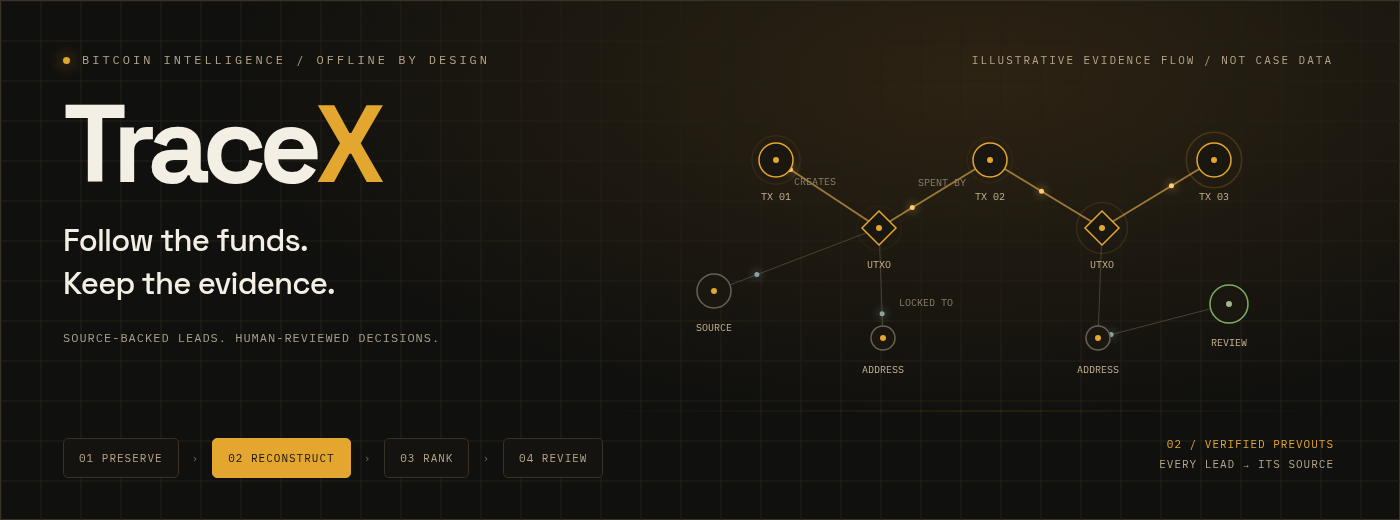
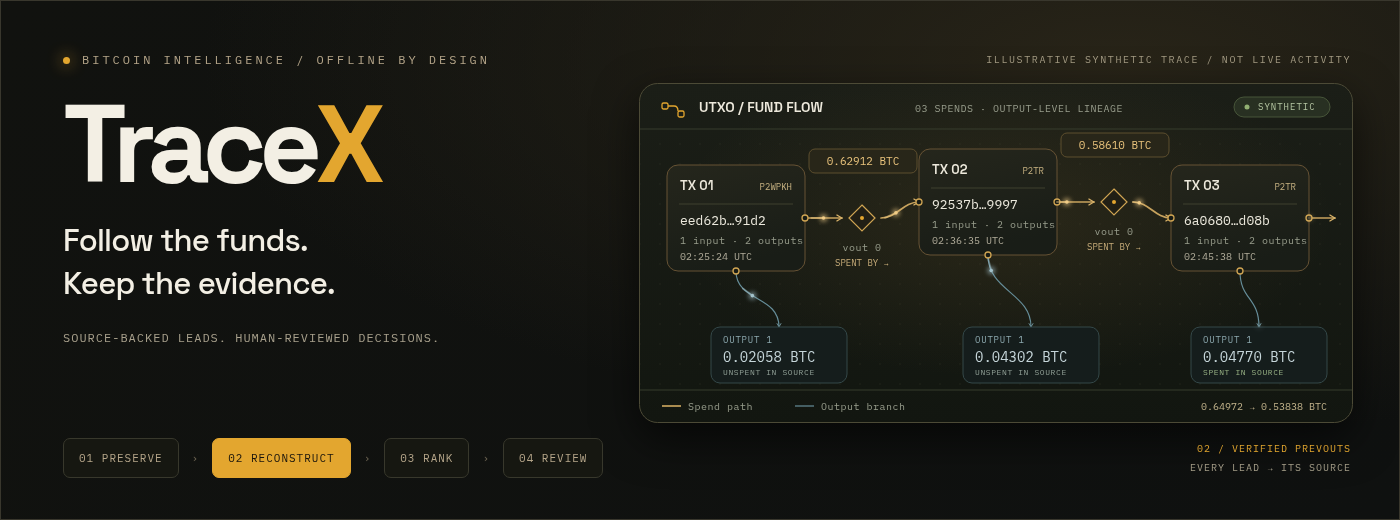
Updated README.md graph

diff --git a/docs/assets/readme/hero.html b/docs/assets/readme/hero.html
@@ -5,38 +5,99 @@
 <style>
 @font-face{font-family:Space;src:url('../../../frontend/src/assets/fonts/space-grotesk-var.woff2')}
 @font-face{font-family:Plex;src:url('../../../frontend/src/assets/fonts/ibm-plex-mono-400.woff2')}
-*{box-sizing:border-box}html,body{margin:0;width:1400px;height:520px;overflow:hidden;background:#10100e;color:#f3efe4}
-main{position:relative;width:1400px;height:520px;border:1px solid #393227;background:radial-gradient(ellipse at 70% 15%,#2d2313 0%,transparent 55%)}
-canvas{position:absolute;inset:0;width:1400px;height:520px}.copy{position:absolute;top:51px;left:62px;z-index:1}
-.eyebrow{font:12px Plex,monospace;letter-spacing:3px;color:#b6a68a}.live{display:inline-block;width:7px;height:7px;background:#e3a62f;border-radius:50%;margin-right:12px;box-shadow:0 0 15px #e3a62f}
-.word{font:700 109px Space,sans-serif;letter-spacing:-7px;margin:23px 0 6px;line-height:1}.word span{color:#e3a62f}
-.tagline{font:500 31px Space,sans-serif;letter-spacing:-.8px;line-height:1.4;margin:20px 0;color:#f3efe4}
-.sub{font:12px Plex,monospace;color:#a8a08c;letter-spacing:1px;margin-top:24px}
-.label{position:absolute;right:66px;top:52px;font:11px Plex,monospace;color:#b6a68a;letter-spacing:2px}
-.stage{position:absolute;left:62px;bottom:41px;display:flex;gap:13px;align-items:center;font:11px Plex,monospace;letter-spacing:1px}
-.pill{padding:12px 15px;border:1px solid #383125;border-radius:5px;color:#b6a68a;background:#14130f}.pill.active{color:#17130c;background:#e3a62f;border-color:#e3a62f}
-.chev{color:#68604f}.status{position:absolute;right:65px;bottom:44px;text-align:right;font:11px Plex,monospace;line-height:1.8;letter-spacing:1px;color:#b6a68a}.status b{color:#e3a62f;font-weight:400}
+*{box-sizing:border-box}html,body{margin:0;width:1400px;height:520px;overflow:hidden;background:#10110f;color:#f3efe4}
+main{position:relative;width:1400px;height:520px;overflow:hidden;border:1px solid #39372d;background:radial-gradient(ellipse at 80% 12%,#282418 0%,transparent 58%),linear-gradient(130deg,#11120f,#0f1110)}
+main:before{content:"";position:absolute;inset:0;background-image:radial-gradient(#a8966720 .7px,transparent .7px);background-size:24px 24px;mask-image:linear-gradient(90deg,transparent 36%,#000 78%);pointer-events:none}
+.copy{position:absolute;top:51px;left:62px;z-index:1}.eyebrow{font:12px Plex,monospace;letter-spacing:3px;color:#b6a68a}.live{display:inline-block;width:7px;height:7px;background:#e3a62f;border-radius:50%;margin-right:12px;box-shadow:0 0 15px #e3a62f}
+.word{font:700 109px Space,sans-serif;letter-spacing:-7px;margin:23px 0 6px;line-height:1}.word span{color:#e3a62f}.tagline{font:500 31px Space,sans-serif;letter-spacing:-.8px;line-height:1.4;margin:20px 0;color:#f3efe4}.sub{font:12px Plex,monospace;color:#a8a08c;letter-spacing:1px;margin-top:24px}
+.label{position:absolute;right:48px;top:52px;font:10px Plex,monospace;color:#a69d85;letter-spacing:1.6px}.graph{position:absolute;left:638px;top:82px;width:714px;height:340px;filter:drop-shadow(0 15px 22px #0009)}
+.stage{position:absolute;left:62px;bottom:41px;display:flex;gap:13px;align-items:center;font:11px Plex,monospace;letter-spacing:1px}.pill{padding:12px 15px;border:1px solid #38382c;border-radius:7px;color:#b6a68a;background:#161711}.pill.active{color:#17130c;background:#e3a62f;border-color:#e3a62f}.chev{color:#68604f}.status{position:absolute;right:48px;bottom:42px;text-align:right;font:10px Plex,monospace;line-height:1.9;letter-spacing:1px;color:#a59e89}.status b{color:#e3a62f;font-weight:400}
+.graph text{font-family:Plex,monospace}.graph .heading{font-family:Space,sans-serif;font-weight:600;fill:#ede9dc}.graph .micro{fill:#999e8d;font-size:10px;letter-spacing:.5px}.graph .hash{fill:#ece9dd;font-size:13px}.graph .time{fill:#b2ad9b;font-size:10px}.graph .branch-value{fill:#c6d6da;font-size:14px}.graph .node-border{fill:url(#card);stroke:#665234;stroke-width:1}.graph .outpoint{fill:#211f15;stroke:#d0a553;stroke-width:1.2}.graph .branch-box{fill:#151d1c;stroke:#344849;stroke-width:1}.graph .connection{fill:none;stroke-linecap:round}.graph .flow-gold{stroke:#c7a25d;stroke-width:1.7}.graph .flow-blue{stroke:#668e9a;stroke-width:1.15}.graph .port{fill:#171b15;stroke:#d0a553;stroke-width:1.3}.graph .timeline{stroke:#3c4235;stroke-width:1;stroke-dasharray:2 5}
 </style>
-<main aria-label="TraceX animated identity: preserve evidence, reconstruct lineage, rank signals and review claims">
-<canvas width="1400" height="520"></canvas>
+<main aria-label="TraceX animated identity with a realistic illustrative UTXO flow: transaction hashes, spent outpoints, output values and branching payments">
 <div class="copy"><div class="eyebrow"><i class="live"></i>BITCOIN INTELLIGENCE / OFFLINE BY DESIGN</div><div class="word">Trace<span>X</span></div><p class="tagline">Follow the funds.<br>Keep the evidence.</p><div class="sub">SOURCE-BACKED LEADS. HUMAN-REVIEWED DECISIONS.</div></div>
-<div class="label">ILLUSTRATIVE EVIDENCE FLOW / NOT CASE DATA</div>
+<div class="label">ILLUSTRATIVE SYNTHETIC TRACE / NOT LIVE ACTIVITY</div>
+<svg class="graph" xmlns="http://www.w3.org/2000/svg" viewBox="0 0 714 340" role="img" aria-labelledby="graph-title graph-description">
+<title id="graph-title">A verified spend path with separate output branches</title>
+<desc id="graph-description">Three synthetic transactions spend previous outputs and create smaller continuing outputs. Side outputs retain their own values and spent status. Moving lights indicate the direction of recorded links, not live blockchain activity.</desc>
+<defs>
+  <linearGradient id="panel" x2="0" y2="1"><stop stop-color="#1b1e17"/><stop offset="1" stop-color="#121610"/></linearGradient>
+  <linearGradient id="card" x2=".3" y2="1"><stop stop-color="#25261c"/><stop offset="1" stop-color="#191d17"/></linearGradient>
+  <radialGradient id="ambient"><stop stop-color="#ac8037" stop-opacity=".13"/><stop offset="1" stop-color="#ac8037" stop-opacity="0"/></radialGradient>
+  <pattern id="dots" width="20" height="20" patternUnits="userSpaceOnUse"><circle cx="1" cy="1" r=".65" fill="#646f462e"/></pattern>
+  <filter id="glow" x="-200%" y="-200%" width="500%" height="500%"><feGaussianBlur stdDeviation="2.3"/></filter>
+  <marker id="gold-arrow" viewBox="0 0 8 8" markerWidth="5" markerHeight="5" refX="6.2" refY="4" orient="auto"><path d="M1 1L6 4L1 7" fill="none" stroke="#d9b36a" stroke-width="1.2"/></marker>
+  <marker id="blue-arrow" viewBox="0 0 8 8" markerWidth="5" markerHeight="5" refX="6.2" refY="4" orient="auto"><path d="M1 1L6 4L1 7" fill="none" stroke="#789ea8" stroke-width="1.2"/></marker>
+</defs>
+<rect x=".5" y=".5" width="713" height="339" rx="18" fill="url(#panel)" stroke="#4c4a36"/>
+<rect x="1" y="47" width="712" height="259" fill="url(#dots)"/>
+<ellipse cx="365" cy="135" rx="330" ry="160" fill="url(#ambient)"/>
+<path d="M1 46H713M1 307H713" stroke="#373c2c"/>
+<g transform="translate(23 18)" stroke="#e3a62f" fill="none" stroke-width="1.3"><rect x="0" y="2" width="6" height="6" rx="1.5"/><rect x="16" y="10" width="6" height="6" rx="1.5"/><path d="M6 5H12Q16 5 16 10"/></g>
+<text class="heading" x="60" y="29" font-size="14">UTXO / FUND FLOW</text>
+<text class="micro" x="380" y="29" text-anchor="middle">03 SPENDS · OUTPUT-LEVEL LINEAGE</text>
+<rect x="595" y="14" width="96" height="20" rx="10" fill="#283022" stroke="#475539"/>
+<circle cx="608" cy="24" r="2.5" fill="#91af72"/><text x="619" y="27" font-size="9" letter-spacing="1" fill="#b7c8a4">SYNTHETIC</text>
+<!-- Transactions preserve realistic source semantics. Values below come from the recorded synthetic fixture. -->
+<g class="connection flow-gold">
+  <path id="create-1" d="M166 135C183 135 187 135 203 135" marker-end="url(#gold-arrow)"/>
+  <path id="spend-1" d="M242 135C258 135 264 119 280 119" marker-end="url(#gold-arrow)"/>
+  <path id="create-2" d="M418 119C435 119 439 119 455 119" marker-end="url(#gold-arrow)"/>
+  <path id="spend-2" d="M494 119C510 119 516 135 532 135" marker-end="url(#gold-arrow)"/>
+  <path id="continue" d="M670 135H696" marker-end="url(#gold-arrow)"/>
+</g>
+<g class="connection flow-blue">
+  <path id="branch-1" d="M97 188C97 219 140 212 140 244" marker-end="url(#blue-arrow)"/>
+  <path id="branch-2" d="M349 172C349 208 392 210 392 244" marker-end="url(#blue-arrow)"/>
+  <path id="branch-3" d="M601 188C601 217 620 214 620 244" marker-end="url(#blue-arrow)"/>
+</g>
+<!-- Continuing outputs are outpoints, rather than invented direct input-to-output allocations. -->
+<g>
+  <rect x="170" y="66" width="108" height="24" rx="6" fill="#282619" stroke="#5d4e2e"/><text x="224" y="82" text-anchor="middle" fill="#e9c37c" font-size="11">0.62912 BTC</text>
+  <path class="outpoint" d="M223 122L236 135L223 148L210 135Z"/><circle cx="223" cy="135" r="2" fill="#e3a62f"/>
+  <text class="micro" x="223" y="168" text-anchor="middle">vout 0</text><text x="223" y="183" text-anchor="middle" font-size="9" fill="#c7ac79">SPENT BY →</text>
+  <rect x="422" y="50" width="108" height="24" rx="6" fill="#282619" stroke="#5d4e2e"/><text x="476" y="66" text-anchor="middle" fill="#e9c37c" font-size="11">0.58610 BTC</text>
+  <path class="outpoint" d="M475 106L488 119L475 132L462 119Z"/><circle cx="475" cy="119" r="2" fill="#e3a62f"/>
+  <text class="micro" x="475" y="152" text-anchor="middle">vout 0</text><text x="475" y="167" text-anchor="middle" font-size="9" fill="#c7ac79">SPENT BY →</text>
+</g>
+<g class="tx" data-node="0" transform="translate(28 82)">
+  <rect class="node-border" width="138" height="106" rx="11"/><path d="M12 39H126" stroke="#3e412e"/>
+  <text class="heading" x="13" y="25" font-size="13">TX 01</text><text x="125" y="25" text-anchor="end" fill="#c8b382" font-size="9">P2WPKH</text>
+  <text class="hash" x="13" y="60">eed62b…91d2</text><text class="micro" x="13" y="79">1 input · 2 outputs</text><text class="time" x="13" y="95">02:25:24 UTC</text>
+  <circle class="port" cx="138" cy="53" r="3"/><circle class="port" cx="69" cy="106" r="3"/>
+</g>
+<g class="tx" data-node="1" transform="translate(280 66)">
+  <rect class="node-border" width="138" height="106" rx="11"/><path d="M12 39H126" stroke="#3e412e"/>
+  <text class="heading" x="13" y="25" font-size="13">TX 02</text><text x="125" y="25" text-anchor="end" fill="#c8b382" font-size="9">P2TR</text>
+  <text class="hash" x="13" y="60">92537b…9997</text><text class="micro" x="13" y="79">1 input · 2 outputs</text><text class="time" x="13" y="95">02:36:35 UTC</text>
+  <circle class="port" cx="0" cy="53" r="3"/><circle class="port" cx="138" cy="53" r="3"/><circle class="port" cx="69" cy="106" r="3"/>
+</g>
+<g class="tx" data-node="2" transform="translate(532 82)">
+  <rect class="node-border" width="138" height="106" rx="11"/><path d="M12 39H126" stroke="#3e412e"/>
+  <text class="heading" x="13" y="25" font-size="13">TX 03</text><text x="125" y="25" text-anchor="end" fill="#c8b382" font-size="9">P2TR</text>
+  <text class="hash" x="13" y="60">6a0680…d08b</text><text class="micro" x="13" y="79">1 input · 2 outputs</text><text class="time" x="13" y="95">02:45:38 UTC</text>
+  <circle class="port" cx="0" cy="53" r="3"/><circle class="port" cx="138" cy="53" r="3"/><circle class="port" cx="69" cy="106" r="3"/>
+</g>
+<g transform="translate(72 244)"><rect class="branch-box" width="136" height="56" rx="9"/><text x="12" y="16" fill="#8eaab0" font-size="9" letter-spacing=".8">OUTPUT 1</text><text class="branch-value" x="12" y="35">0.02058 BTC</text><text x="12" y="48" font-size="8" letter-spacing=".6" fill="#91a096">UNSPENT IN SOURCE</text></g>
+<g transform="translate(324 244)"><rect class="branch-box" width="136" height="56" rx="9"/><text x="12" y="16" fill="#8eaab0" font-size="9" letter-spacing=".8">OUTPUT 1</text><text class="branch-value" x="12" y="35">0.04302 BTC</text><text x="12" y="48" font-size="8" letter-spacing=".6" fill="#91a096">UNSPENT IN SOURCE</text></g>
+<g transform="translate(552 244)"><rect class="branch-box" width="136" height="56" rx="9"/><text x="12" y="16" fill="#8eaab0" font-size="9" letter-spacing=".8">OUTPUT 1</text><text class="branch-value" x="12" y="35">0.04770 BTC</text><text x="12" y="48" font-size="8" letter-spacing=".6" fill="#99b385">SPENT IN SOURCE</text></g>
+<g id="particles"></g>
+<path d="M23 323H42" stroke="#c7a25d" stroke-width="1.7"/><text class="micro" x="49" y="327">Spend path</text><path d="M156 323H175" stroke="#668e9a" stroke-width="1.2"/><text class="micro" x="182" y="327">Output branch</text><text x="688" y="327" text-anchor="end" font-size="10" fill="#c4b58d">0.64972 → 0.53838 BTC</text>
+</svg>
 <div class="stage"><span class="pill">01 PRESERVE</span><span class="chev">›</span><span class="pill">02 RECONSTRUCT</span><span class="chev">›</span><span class="pill">03 RANK</span><span class="chev">›</span><span class="pill">04 REVIEW</span></div>
 <div class="status"><b id="state">01 / ORIGINAL BYTES</b><br>EVERY LEAD → ITS SOURCE</div>
 </main>
 <script>
-const ctx=document.querySelector('canvas').getContext('2d');
-const points=[[775,159],[878,227],[989,159],[1101,227],[1213,159],[882,337],[1097,337],[1228,303],[713,290]];
-const edges=[[0,1],[1,2],[2,3],[3,4],[1,5],[3,6],[6,7],[8,1]];
-const labels=['TX 01','UTXO','TX 02','UTXO','TX 03','ADDRESS','ADDRESS','REVIEW','SOURCE'];
+const NS='http://www.w3.org/2000/svg';
 const names=['01 / ORIGINAL BYTES','02 / VERIFIED PREVOUTS','03 / PATTERN SIGNALS','04 / RECORDED DECISIONS'];
-function frame(time){const t=time/1000;ctx.clearRect(0,0,1400,520);ctx.lineWidth=1;
-  ctx.strokeStyle='#242116';for(let x=0;x<1400;x+=40){ctx.beginPath();ctx.moveTo(x,0);ctx.lineTo(x,520);ctx.stroke()}for(let y=0;y<520;y+=40){ctx.beginPath();ctx.moveTo(0,y);ctx.lineTo(1400,y);ctx.stroke()}
-  const g=ctx.createLinearGradient(560,0,1350,0);g.addColorStop(0,'#e3a62f00');g.addColorStop(.55,'#e3a62f33');g.addColorStop(1,'#e3a62f00');ctx.strokeStyle=g;ctx.beginPath();ctx.moveTo(600,410);ctx.lineTo(1330,410);ctx.stroke();
-  for(let i=0;i<edges.length;i++){const [a,b]=edges[i],p=points[a],q=points[b];ctx.strokeStyle=i<4?'#9b7738':'#494135';ctx.lineWidth=i<4?2:1;ctx.beginPath();ctx.moveTo(...p);ctx.lineTo(...q);ctx.stroke();const f=(t*.38+i*.16)%1;ctx.fillStyle=i<4?'#ffcc70':'#8aa2a5';ctx.shadowColor=ctx.fillStyle;ctx.shadowBlur=10;ctx.beginPath();ctx.arc(p[0]+(q[0]-p[0])*f,p[1]+(q[1]-p[1])*f,2.5,0,Math.PI*2);ctx.fill();ctx.shadowBlur=0}
-  for(let i=0;i<points.length;i++){const [x,y]=points[i],r=i===7?19:i===5||i===6?12:17;ctx.fillStyle='#191710';ctx.strokeStyle=i===7?'#7fae63':i<5?'#e3a62f':'#696152';ctx.lineWidth=1.5;ctx.beginPath();if(i===1||i===3){ctx.moveTo(x,y-r);ctx.lineTo(x+r,y);ctx.lineTo(x,y+r);ctx.lineTo(x-r,y);ctx.closePath()}else ctx.arc(x,y,r,0,Math.PI*2);ctx.fill();ctx.stroke();ctx.fillStyle=i===7?'#9db889':'#e3a62f';ctx.beginPath();ctx.arc(x,y,3,0,Math.PI*2);ctx.fill();ctx.font='10px Plex,monospace';ctx.fillStyle='#c6b592';ctx.textAlign='center';ctx.fillText(labels[i],x,y+r+23);if(i<5){ctx.strokeStyle=`rgba(227,166,47,${.12+.08*Math.sin(t*2-i)})`;ctx.beginPath();ctx.arc(x,y,r+8+3*Math.sin(t*2-i),0,Math.PI*2);ctx.stroke()}}
-  ctx.textAlign='left';ctx.font='10px Plex,monospace';ctx.fillStyle='#8c8068';ctx.fillText('CREATES',793,184);ctx.fillText('SPENT BY',917,185);ctx.fillText('LOCKED TO',898,305);
-  const stage=Math.floor(t/3)%4;document.querySelectorAll('.pill').forEach((p,i)=>p.classList.toggle('active',i===stage));document.querySelector('#state').textContent=names[stage];
-}window.paint=frame;function animate(t){frame(t);requestAnimationFrame(animate)}document.fonts.ready.then(()=>new URLSearchParams(location.search).has('fixed')?frame(0):requestAnimationFrame(animate));
+const specs=[['create-1',0,'#f0cc87'],['spend-1',.7,'#f0cc87'],['create-2',1.4,'#f0cc87'],['spend-2',2.1,'#f0cc87'],['continue',2.8,'#f0cc87'],['branch-1',.5,'#a2c1ca'],['branch-2',1.9,'#a2c1ca'],['branch-3',3.1,'#a2c1ca']];
+const flows=specs.map(([id,delay,color])=>{const path=document.getElementById(id),length=path.getTotalLength();const group=document.createElementNS(NS,'g'),trail=document.createElementNS(NS,'path'),halo=document.createElementNS(NS,'circle'),dot=document.createElementNS(NS,'circle');trail.setAttribute('stroke',color);trail.setAttribute('stroke-width','2');trail.setAttribute('stroke-linecap','round');trail.setAttribute('fill','none');halo.setAttribute('r','4');halo.setAttribute('fill',color);halo.setAttribute('filter','url(#glow)');dot.setAttribute('r','1.8');dot.setAttribute('fill',color);group.append(trail,halo,dot);document.getElementById('particles').append(group);return {path,length,delay,group,trail,halo,dot}});
+const nodes=Array.from(document.querySelectorAll('.node-border'));
+function paint(time){const t=(time%12000)/1000;
+  flows.forEach(({path,length,delay,group,trail,halo,dot})=>{const progress=((t-delay+12)%6)/6;const distance=progress*length;const point=path.getPointAtLength(distance);const start=path.getPointAtLength(Math.max(0,distance-12));const alpha=Math.min(1,progress*9,(1-progress)*9);group.setAttribute('opacity',String(alpha));trail.setAttribute('d',`M${start.x} ${start.y}L${point.x} ${point.y}`);trail.setAttribute('opacity','.45');for(const particle of [halo,dot]){particle.setAttribute('cx',point.x);particle.setAttribute('cy',point.y)}halo.setAttribute('opacity','.55')});
+  nodes.forEach((node,i)=>{const energy=(1+Math.cos(2*Math.PI*(t/12-i/3)))/2;node.setAttribute('stroke',`rgb(${Math.round(101+energy*72)},${Math.round(89+energy*53)},${Math.round(56+energy*27)})`);node.setAttribute('stroke-width',String(1+energy*.35))});
+  const stage=Math.floor(t/3)%4;document.querySelectorAll('.pill').forEach((p,i)=>p.classList.toggle('active',i===stage));document.getElementById('state').textContent=names[stage];
+}
+window.paint=paint;function animate(t){paint(t);requestAnimationFrame(animate)}document.fonts.ready.then(()=>new URLSearchParams(location.search).has('fixed')?paint(0):requestAnimationFrame(animate));
 </script>
 </html>
